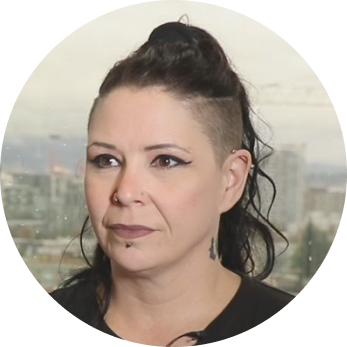
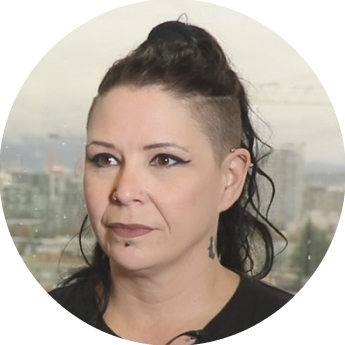
Added Wendy

diff --git a/content/tour/speakers/wendy.md b/content/tour/speakers/wendy.md
@@ -1,13 +1,13 @@
 ---
 name: Wendy
 type: peer
-hls: 'https://d2rsox40dv21dz.cloudfront.net/dtes/Guy/master.m3u8'
-video: 'https://d2rsox40dv21dz.cloudfront.net/dtes/Guy.mp4'
-poster: 'guy/poster.jpg'
-profile: 'guy/profile.jpg'
-background: 'guy/background.jpg'
+hls: 'https://d2rsox40dv21dz.cloudfront.net/dtes/Wendy/master.m3u8'
+video: 'https://d2rsox40dv21dz.cloudfront.net/dtes/Wendy.mp4'
+poster: 'shared/black-poster.jpg'
+profile: 'wendy/profile.jpg'
+background: 'wendy/lostandfoundcafe.jpg'
 bio: Wendy Stevens is the Peer Operations Coordinator with Vancouver Coastal Health’s Overdose Emergency Response Team.  Before coming to work with VCH, she worked in HIV healthcare, education and support. Wendy has many years of lived experience with addiction, sex trade and life in the Downtown Eastside.
-location: East Hastings
+location: Lost + Found Cafe (333 W Hastings)
 map:
     x: 120
     y: 260
